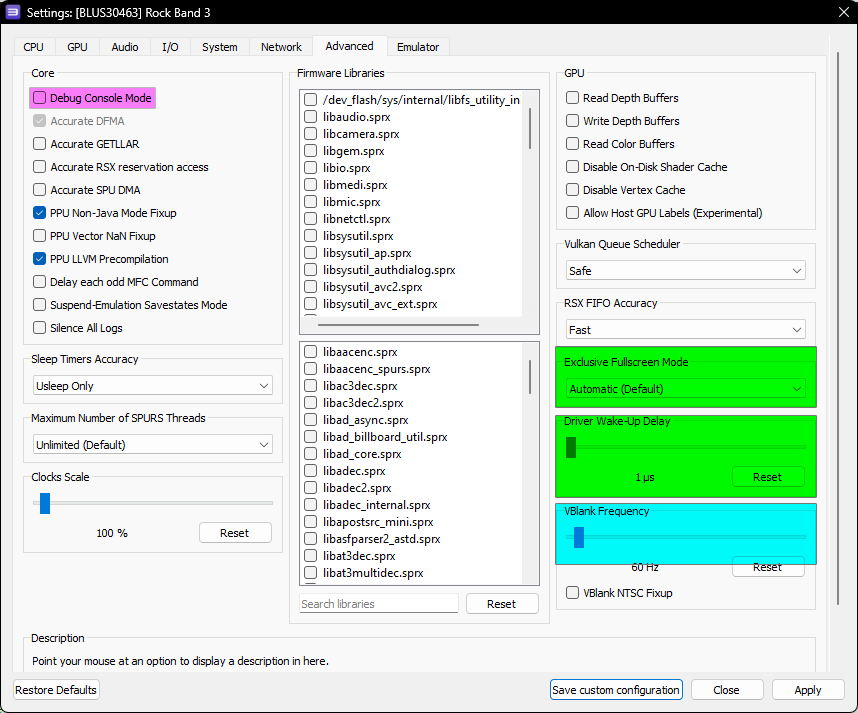
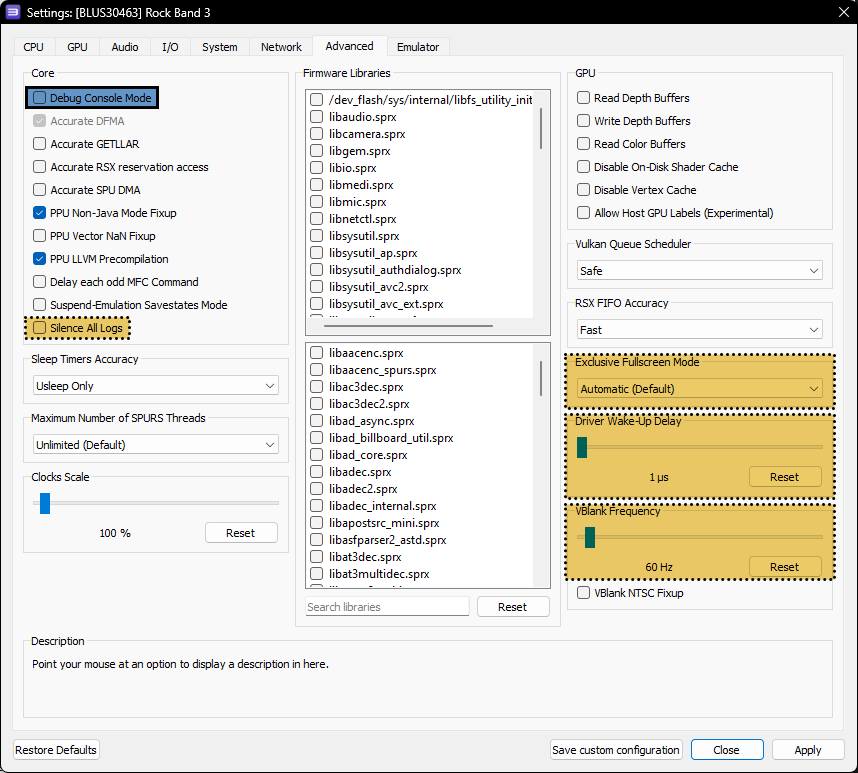
Color Blind Update

diff --git a/README.md b/README.md
@@ -41,14 +41,14 @@ You will need:
 * _A copy of Rock Band 3 for the PS3 on your computer. (BLUS-30463 is strongly suggested)_
 * _An instrument controller. You can use:_
 	*   _Any Rock Band and Guitar Hero Guitar (PS3, PS4, Wii, X360)_
-	*   _Any Rock Band and Guitar Hero Drums (PS3, PS4, Wii, X360)_
-	*   _Rock Band 3 MIDI Pro Adapter and a compatible instrument (PS3 version only)_<sup>a
-	*   _Rock Band 3 Keyboard (PS3 version via dongle only)_<sup>a b
-	*   _Rock Band 3 Fender Mustang PRO-Guitars \[**Wireless**\] (PS3 version via dongle only)_<sup>a
+	*   _Any Rock Band and Guitar Hero Drums (PS3, Wii, X360)_<sup>a
+	*   _Rock Band 3 MIDI Pro Adapter and a compatible instrument (PS3 version only)_<sup>b
+	*   _Rock Band 3 Keyboard (PS3 version via dongle only)_<sup>b c
+	*   _Rock Band 3 Fender Mustang PRO-Guitars \[**Wireless**\] (PS3 version via dongle only)_<sup>b
 	*   _Rock Band 3 Fender Mustang PRO-Guitars \[**Wired**\] (PS3, Wii, X360 via MIDI to USB adapter)_
 	*   _Rock Band 3 Squier Stratocaster PRO-Guitars (PS3, Wii, X360 via via MIDI to USB adapter)_
-	*   _Any MIDI Keyboards (**37 keys minimum** via USB or MIDI to USB adapter)_<sup>b c
-	*   _MIDI Drum Kits (via USB or MIDI to USB adapter with MidiDrumHero and VJoy)_<sup>d
+	*   _Any MIDI Keyboards (**37 keys minimum** via USB or MIDI to USB adapter)_<sup>c d
+	*   _MIDI Drum Kits (via USB or MIDI to USB adapter with MidiDrumHero and VJoy)_<sup>e
 	*   _Microphones (game can be controlled with most game controllers or typing keyboard when playing as a vocalist)_
 *   _A computer_
 	* Minimum:
@@ -68,10 +68,11 @@ You will need:
 	* You can check [[RPCS3's page for suggested specifications here]](https://rpcs3.net/quickstart) although they may be a bit inflated for this game.
 *   _[[7zip]](https://www.7-zip.org/download.html) (or WinRAR if you hate yourself)_
 
-<sup>a</sup> <sub>Wii Rock Band instrument controllers and dongles can be converted for PS3 so you can use passthrough mode, but this is beyond the scope of this tutorial. Google is your friend.</sub>  
-<sup>b</sup> <sub>Connecting keyboards via MIDI with less than 37 keys is possible but not ideal so they're exempt from this tutorial.</sub>  
-<sup>c</sup> <sub>Certain MIDI keyboards, notably Yamaha ones, may exhibit problems due to their MIDI implementation. [[These keyboards require the latest version of RPCS3]](https://rpcs3.net/download).</sub>  
-<sup>d</sup> <sub>I don't have a MIDI Drumkit so there is no set up tutorial for this. Apologies. If you have one and would like to help by sending in screenshots of the setup process, please contact me on the Milohax Discord.</sub>
+<sup>a</sup> <sub>Although you can use PS4 Rock Band kits via Bluetooth, Pro Cymbals will refuse to work so they are exempt from this tutorial.</sub>  
+<sup>b</sup> <sub>Wii Rock Band instrument controllers and dongles can be (permanently) converted for PS3 so you can use passthrough mode, but this is beyond the scope of this tutorial. Google is your friend.</sub>  
+<sup>c</sup> <sub>Connecting keyboards via MIDI with less than 37 keys is possible but not ideal so they're exempt from this tutorial.</sub>  
+<sup>d</sup> <sub>Certain MIDI keyboards, notably Yamaha ones, may exhibit problems due to their MIDI implementation. [[These keyboards require the latest version of RPCS3]](https://rpcs3.net/download).</sub>  
+<sup>e</sup> <sub>I don't have a MIDI Drumkit so there is no set up tutorial for this. Apologies. If you have one and would like to help by sending in screenshots of the setup process, please contact me on the Milohax Discord.</sub>
 
 <br/>
 
@@ -79,6 +80,8 @@ You will need:
 
 We'll be downloading an older version of RPCS3 because it performs better at the moment. Although this guide is Windows-centric, I have linked Linux just in case you want to try it on Linux based operating systems. For those curious (nerds), this is the last RPCS3 build before the QT6 merge which has various problems.<sup>c  
 <sup>c</sup> <sub>Certain MIDI keyboards, notably Yamaha ones, may exhibit problems due to their MIDI implementation. [[These keyboards require the latest version of RPCS3]](https://rpcs3.net/download).</sub>  
+
+[[Click here to download RPCS3.]](https://github.com/RPCS3/rpcs3-binaries-win/releases/download/build-9b3a878c189e4e688b6025de0d0ff659116dcade/rpcs3-v0.0.28-15417-9b3a878c_win64.7z)
 
 | [![Microsoft Windows' logo](images/inst/windows.png)](https://github.com/RPCS3/rpcs3-binaries-win/releases/download/build-9b3a878c189e4e688b6025de0d0ff659116dcade/rpcs3-v0.0.28-15417-9b3a878c_win64.7z "Windows Version") | [![Linux's Tux Mascot](images/inst/linux.png)](https://github.com/RPCS3/rpcs3-binaries-linux/releases/download/build-9b3a878c189e4e688b6025de0d0ff659116dcade/rpcs3-v0.0.28-15417-9b3a878c_linux64.AppImage "Linux Version") |
 |---|---|
@@ -302,10 +305,9 @@ This may seem overwhelming because of the sheer number of options, but I have co
 
 | COLOR | MEANING |
 |---|---|
-| ![A yellow square.](images/cust/bigyellow.png "Yellow Square") | **REQUIRED** |
-| ![A green square.](images/cust/biggreen.png "Green Square") | **Low performance tweaks** |
-| ![A pink square.](images/cust/bigpink.png "Pink Square") | **Hardware Dependent** |
-| ![A teal square.](images/cust/bigteal.png "Teal Square") | **Optional** |
+| ![A red square with a dashed outline.](images/cust/bigred.png "Red Square") | **REQUIRED** |
+| ![A yellow square with a dotted outline.](images/cust/bigyellow.png "Yellow Square") | **Performance Tweaks** |
+| ![A blue square with a solid outline.](images/cust/bigblue.png "Blue Square") | **Optional** |
 
 We'll go tab by tab, starting with:
 
@@ -314,41 +316,46 @@ We'll go tab by tab, starting with:
 ## CPU
 
 
-![A screenshot of Rock Band 3's CPU custom settings, showing SPU XFloat Accuracy, SPU Block Size, and Preferred SPU Threads highlighted in green.](images/cust/cpu.png "CPU")
-* ![A green square.](images/cust/smallgreen.png "Green Square") **Improved CPU performance, at the cost of bottlenecking on certain machines**: 
-	* **Change "SPU Block Size" to "Mega"** - Ties smaller SPU compiled together, which requiring fewer cores/threads. Drastically speeds up boot time on certain machines.
-	* **Change "Preferred SPU Threads" to "1", "2", "3", or "4"** - Can help prevent stutter caused by CPU overloads. Start from 4 and lower it until it improves.
-	* **AS A LAST RESORT** **"SPU XFloat Accuracy" to "Relaxed"** - Changing this will gain a few frames but **will break practice mode!**
+![A screenshot of Rock Band 3's CPU custom settings, showing SPU XFloat Accuracy, SPU Block Size, and Preferred SPU Threads highlighted in yellow with a dotted outline.](images/cust/cpu.png "CPU")
+* ![A yellow square with a dotted outline.](images/cust/smallyellow.png "Yellow Square") **Improved CPU performance, at the cost of bottlenecking on certain machines**: 
+	* **Change "SPU Block Size" to "Mega"** - Ties smaller SPU compiled together, which requiring fewer cores/threads. Drastically speeds up game startup time on certain machines.
+	* **Change "Preferred SPU Threads" to "1", "2", "3", or "4"** - Can help prevent stutter caused by CPU overloads. **Start from 4 and lower it until it improves**.
+	* **AS A LAST RESORT** **"SPU XFloat Accuracy" to "Relaxed"** - Changing this will gain a few frames but **will break practice mode and possibly other features!**
 
 <br/>
 
 ## GPU
-![A screenshot of Rock Band 3's GPU custom settings, highlighting Write Color Settings highlighted in yellow, ZCULL Accuracy highlighted in green, Resolution Scale, Resolution Scale Threshold, Frame Limit, and Shader Quality highlighted in pink, and VSync highlighted in teal.](images/cust/gpu.png "GPU")
-* ![A yellow square.](images/cust/smallyellow.png "Yellow Square") REQUIRED: 
+![A screenshot of Rock Band 3's GPU custom settings, highlighting Write Color Settings highlighted in red with a dashed outline, ZCULL Accuracy, Resolution Scale, Resolution Scale Threshold, Frame Limit, Shader Quality, and VSync highlighted in yellow with a dotted outline.](images/cust/gpu.png "GPU")
+* ![A light red square with a dashed outline.](images/cust/smallred.png "Light Red Square") REQUIRED: 
 	* **Enable "Write Color Buffers"** - This fixes 99% of the issues with characters having glitched textures.
-* ![A green square.](images/cust/smallgreen.png "Green Square") For low end GPUs: 
-	* **Change "ZCULL Accuracy" to "Relaxed"** - This provides a slight performance improvement but may cause graphical anomalies.
-* ![A pink square.](images/cust/smallpink.png "Pink Square") Tweak depending on computer: 
-	* **Change "Frame Limit" to "Off" to use higher VBlank Frequencies** (which may introduce jitter). Set it to 60 if you want a locked 60 FPS framerate (redundant with 60 Hz Vblank). Leave on Auto if want RPCS3 to guess the best framerate. It is suggested to use your graphics driver's settings or software like MSI Afterburner to cap your framerate instead.
-	* **Adjust "Shader Quality"** depending on your system. Low and Medium will drastically reduce quality, Auto will use default settings, and High is the best option. Ultra looks similar to high.
-	* **Adjust "Resolution Scale"** to preference and to what your computer can handle. Lower for performance gains at a drastic cost in quality. Increase for sharper graphics.
-	* **Adjust "Resolution Scale Threshold"** depending on "Resolution Scale" above. Set the number to whatever percent you increased your resolution (i.e., for 1920x1080, which is 150%, you'd calculate what 150% of 16 is, which would be 24.
-* ![A teal square.](images/cust/smallteal.png "Teal Square") OPTIONAL: 
+* ![A yellow square with a dotted outline.](images/cust/smallyellow.png "Yellow Square") Performance Tweaks: 
 	* **Enable "VSync"** - Reduces screen tearing and may lead to a more stable framerate. Slightly increases latency.
+	* **Change "Frame Limit"** 
+		* Set it to "Off" to use higher VBlank Frequencies (which may introduce jitter).
+		* Set it to 60 if you want a locked 60 FPS framerate (redundant with 60 Hz Vblank). 
+		* Auto will use default RPCS3 settings.
+		* It is suggested to use your graphics driver's settings or software like MSI Afterburner to cap your framerate instead.
+	* **Adjust "Shader Quality"** depending on your system.
+		* Low and Medium will drastically reduce quality at certain frame rates with little performance gains.
+		* High is the best option. Ultra looks similar to high.
+		* Auto will use default RPCS3 settings. This is the suggested setting. 
+	* **Adjust "Resolution Scale"** to preference and to what your computer can handle. Lower for performance gains at a drastic cost in quality. Increase for sharper graphics.
+	* **Adjust "Resolution Scale Threshold"** depending on "Resolution Scale" above. Set the number to whatever percent you increased your resolution (i.e., for 1920x1080, which is 150% of 1280x720, you'd calculate what 150% of 16 is, which would be 24.
+	* **Change "ZCULL Accuracy" to "Relaxed"** - For low end GPUs. Provides a slight performance improvement but may cause graphical anomalies.
 
 <br/>
 
 ## Audio
-![A screenshot of Rock Band 3's Audio custom settings, highlighting Enable Buffering in yellow, Audio Buffer in pink, and Microphone Settings, Microphone Type (Standard), Mic1, Mic2, Mic3, and Mic4 in teal.](images/cust/audio.png "Audio")
-* ![A yellow square.](images/cust/smallyellow.png "Yellow Square") REQUIRED: 
+![A screenshot of Rock Band 3's Audio custom settings, highlighting Enable Buffering in red with a dashed outline, Audio Buffer highlighted in yellow with a dotted outline, and Microphone Settings, Microphone Type (Standard), Mic1, Mic2, Mic3, and Mic4 highlighted in blue with a solid outline.](images/cust/audio.png "Audio")
+* ![A light red square with a dashed outline.](images/cust/smallred.png "Light Red Square") REQUIRED: 
 	* **Enable "Enable Buffering"** - Absolutely required by Rock Band 3. It should be enabled by default but if it's disabled, re-enable it.
-* ![A pink square.](images/cust/smallpink.png "Pink Square") Tweak depending on audio hardware: 
+* ![A light yellow square with a dotted outline.](images/cust/smallyellow.png "Light Yellow Square") Tweak depending on audio hardware: 
 	* **Adjust "Audio Buffer Duration"** depending on system.
 		* Lower values give you less audio latency but higher CPU usage.
 		* Higher values give you more audio latency but lower CPU usage.
-		* Vocalists are affected the most by this, as higher latency creates a distracting echo. Instrument players can use calibration to compensate either way.
+		* Vocalists are affected the most by this, as a higher latency creates a distracting echo. Instrument players can use calibration to compensate either way.
 		* You can change this while the game is running, but it will require re-calibrating in Rock Band 3's system settings.
-* ![A teal square.](images/cust/smallteal.png "Teal Square") For Vocalists: 
+* ![A blue square with a solid outline.](images/cust/smallblue.png "Blue Square") For Vocalists: 
 	* **Select an input device in "Mic1", "Mic2", and "Mic3"** for vocals. If not playing vocals, Mic1 will be used for voice chat.
 
 <br/>
@@ -377,8 +384,8 @@ Here's an example of a MIDI to USB interface. Most will come with an LED indicat
 
 
 **If everything's connected**, let's go ahead and **focus on RPCS3's I/O tab.**  
-![A screenshot of Rock Band 3's I/O custom settings, showing Emulated MIDI Devices, device type, and device selection highlighted in teal.](images/cust/io.png "I/O")
-* ![A teal square.](images/cust/smallteal.png "Teal Square") For third party Keyboard and wired Pro Guitar players: 
+![A screenshot of Rock Band 3's I/O custom settings, showing Emulated MIDI Devices, device type, and device selection highlighted in blue with a solid outline.](images/cust/io.png "I/O")
+* ![A blue square with a solid outline.](images/cust/smallblue.png "Blue Square") For third party Keyboard and wired Pro Guitar players: 
 	* 🎹 **Keyboard Players: Leave your "Emulated MIDI type" on "Keyboard" and select your keyboard or MIDI interface in the drop-down menu next to it.**.
 	* 🎸 **Pro Guitar Players: Change your "Emulated MIDI type" from "Keyboard" to "Guitar (17 Frets)" if you have a Mustang Pro Guitar, or "Guitar (22 Frets)" if you have a Squier Pro Guitar, then select your MIDI to USB interface in the drop-down menu next to it**.
   
@@ -390,36 +397,39 @@ As **keyboards don't have PS3 buttons, the first octave is** reserved **for mapp
 <br/>
 
 ## NETWORK
-![A screenshot of Rock Band 3's Network custom settings, highlighting Network Status (Connected) in yellow, IP/Hosts switches (rb3ps3live.hmxservices.com=45.33.48.123), PSN Status (RPCN), and Enable UPNP (not checked) in teal](images/cust/network.png "Network")
-* ![A yellow square.](images/cust/smallyellow.png "Yellow Square") REQUIRED: 
+![A screenshot of Rock Band 3's Network custom settings, highlighting Network Status (Connected) in red with a dashed outline IP/Hosts switches (rb3ps3live.hmxservices.com=45.33.48.123), PSN Status (RPCN), and Enable UPNP (not checked) highlighted in blue with a solid outline.](images/cust/network.png "Network")
+* ![A light red square with a dashed outline.](images/cust/smallred.png "Light Red Square") REQUIRED: 
 	* **Change the Network Status to “Connected” as highlighted in the picture. If left on “Disconnected,” the game will temporarily freeze when browsing the song library.**
-* ![A teal square.](images/cust/smallteal.png "Teal Square") For online multiplayer: 
+* ![A blue square with a solid outline.](images/cust/smallblue.png "Blue Square") For online multiplayer: 
 	* Tick **"Enable UPNP"** or **forward port 9103 (UDP) in your firewall. Don't enable UPNP while port forwarding** as this can cause crashes.
-	* **Join the \[[RBEnhanced Discord server](https://discord.gg/6rRUWXPYwb)\]** and **go to** the **[\[#gocentral-connecting\]](https://discord.com/channels/953085263008129064/1076031372185042984)** channel. **Follow the instructions for RPCS3**. Although the picture above includes details, this is subject to change, and you should **always refer to the \[[RBEnhanced Discord](https://discord.gg/6rRUWXPYwb)\] for** this **information**. While you're there, you can also organize sessions with other players.  
+	* As of writing this, there are two Rock Band 3 multiplayer servers to connect to. You can easily switch between them.
+		* **Join \[[Milohax Discord server](https://discord.gg/6rRUWXPYwb)\]**and **go to** the **[\[#ashcentral-status\]](https://discord.com/channels/961352072140324924/1153056600030973992)** channel. **Copy the information for RPCS3**. This is the suggested server due to having more features and frequent updates.  
+		* Join the \[[RBEnhanced Discord server](https://discord.gg/6rRUWXPYwb)\] and go to the \[[#gocentral-connecting]](https://discord.com/channels/953085263008129064/1076031372185042984\) channel. Follow the instructions for RPCS3.  
 
 <br/>
 
 ## ADVANCED
 ![A screenshot of Rock Band 3's Advanced custom settings, showing "Exclusive Fullscreen Mode (Automatic (Default)), and Driver Wake-Up Delay (1µ) in green.](images/cust/advanced.png "Advanced")
-* ![A green square.](images/cust/smallgreen.png "Green Square") Depending on machines: 
+* ![A yellow square with a dotted outline.](images/cust/smallyellow.png "Yellow Square") Depending on your computer: 
+	* **Change "Driver Wake-up Delay" to "20µ"** if you experience crashing after a few songs. Increase it to "40µ" if the issue persists.
 	* **Change "Exclusive Fullscreen Mode" to "Prefer borderless fullscreen"** to prevent potential crashes and audio desync when changing program focus constantly.
-	* **Change "Driver Wake-up Delay" to "20µ"** if you experience rare freezing after a few songs. Increase it to "40µ" if the issue persists.
-* ![A teal square.](images/cust/smallteal.png "Teal Square") For higher framerates: 
 	* **Adjust VBlank Frequency** if you want a higher internal framerate. This can make it easier to hit notes but may cause graphical instability and connection issues while online. **It's best left alone** and not recommended to go above 75 Hz if adjusting it for online play.
-* ![A pink square.](images/cust/smallpink.png "Pink Square") Depending on memory: 
-	* **Enable "Debug Console Mode"** - With this option enabled and Rock Band 3 Deluxe installed, you can take advantage of higher memory access, leading to longer sessions with longer songs and increased stability. Most people should enable this unless they have atrociously memory usage.
+	* **Enable "Silence All Logs"** - **Not suggested** but can help reduce drive usage on computers with slower drives. This is a non-issue for most people. **If you disable this, neither the RPCS3 team or the Milohax team will be able to help you with troubleshooting and crashes**.
+* ![A blue square with a solid outline.](images/cust/smallblue.png "Blue Square") For higher framerates: 
+	* **Enable "Debug Console Mode"** - With this option enabled and Rock Band 3 Deluxe installed, you can take advantage of higher memory access, leading to longer sessions with longer songs and increased stability. Most people should enable this.
+	
 
 <br/>
 
 ## EMULATOR
 ![A screenshot of Rock Band 3's Emulator custom settings, showing "Show trophy popups", "Show PPU compilation hint", "Show Shader Compilation hint", "Start Games in fullscreen mode", "Use native user interface".](images/cust/emulator.png "Emulator")
 You can leave this as is if you want, but I would consider changing the following options:
-* ![A teal square.](images/cust/smallteal.png "Teal Square") Optional tweaks: 
+* ![A blue square with a solid outline.](images/cust/smallblue.png "Blue Square") Optional tweaks: 
 	* **“Show trophy popups”** - Mimics the way Trophy notifications appear on the PS3. I personally disable this as the game has its own pop-ups.
 	* **“Show PPU compilation hint”** - This creates a popup whenever RPCS3 is compiling units for the PPU. This only comes up once as "Recompiler (LLVM)" in the CPU tab does this when launching the game.
 	* **“Show shader compilation hint”** - This creates a popup whenever RPCS3 is compiling shaders. Whether you leave it on or not is up to you, but I should tell you what this means as it is important. When you run PS3 games, it has to compile shaders to “translate” the graphics from a PS3 format to a format your PC can work with. **The game will** appear to **stutter when this happens**. **This happens on ALL computer systems. When it finishes** compiling an effect, **it will usually never happen again**. **The best way to deal with this is** just **to** **play the game** as it will quickly go away. You can also use Rock Band 3 Deluxe's Autoplay modifier to let it go through a few songs in a party shuffle and let it compile a decent amount of shaders.
 	* **“Start games in Fullscreen mode”** - Obviously just switches to Fullscreen when you start Rock Band 3. I personally enable this.  
-	* **“Use Native Interface”** - Disabling this will remove RPCS3's fancy popups while in-game, including the keyboard. It will instead have an older looking input.
+	* **“Use Native Interface”** - Disabling this can fix naming things in game on controllers as that feature only works for standard gamepads.
     
 
 **After all of that, remember to click "Apply" then "Save custom configuration"**
@@ -477,15 +487,15 @@ Likewise, in Rock Band 3, you will see the instrument ready to join.
 	*	Set your computer to the [[High Performance power plan.]](https://help.ableton.com/hc/en-us/articles/115000211304-Using-the-High-performance-power-plan-Windows-)
 	*   Go back to the [[Custom Configuration setup section]](#configuration) and apply suggested low performance tweaks.
 	*   Install [[Rock Band 3 Deluxe]](https://github.com/hmxmilohax/rock-band-3-deluxe/tree/main#-installing-on-rpcs3) and disable Post Effects in Deluxe Settings.
-	*	Close out the dedicated Discord client and open it up un your browser or phone.
+	*	Close out the dedicated Discord client and open it up in your browser or on your phone.
 
 *   **_Game doesn't fill the screen_**
 	*   Enable "Overscan" in Rock Band 3's System Settings.
 
-*   **_Game is delayed_**
+*   **_Game feels off_**
 	*   Run Calibration in Rock Band 3's System Settings if you haven't for some reason. Disable “Dolby Digital” if you enabled it in the same menu.
 
-*   **_Game ocassionally crashes when practicing on regular guitar/bass_**
+*   **_Game occasionally crashes when practicing on regular guitar/bass_**
 	*   This is a known bug which currently has no solution.
 
 *   **_Cannot use Automatic Calibration in System Settings_**
